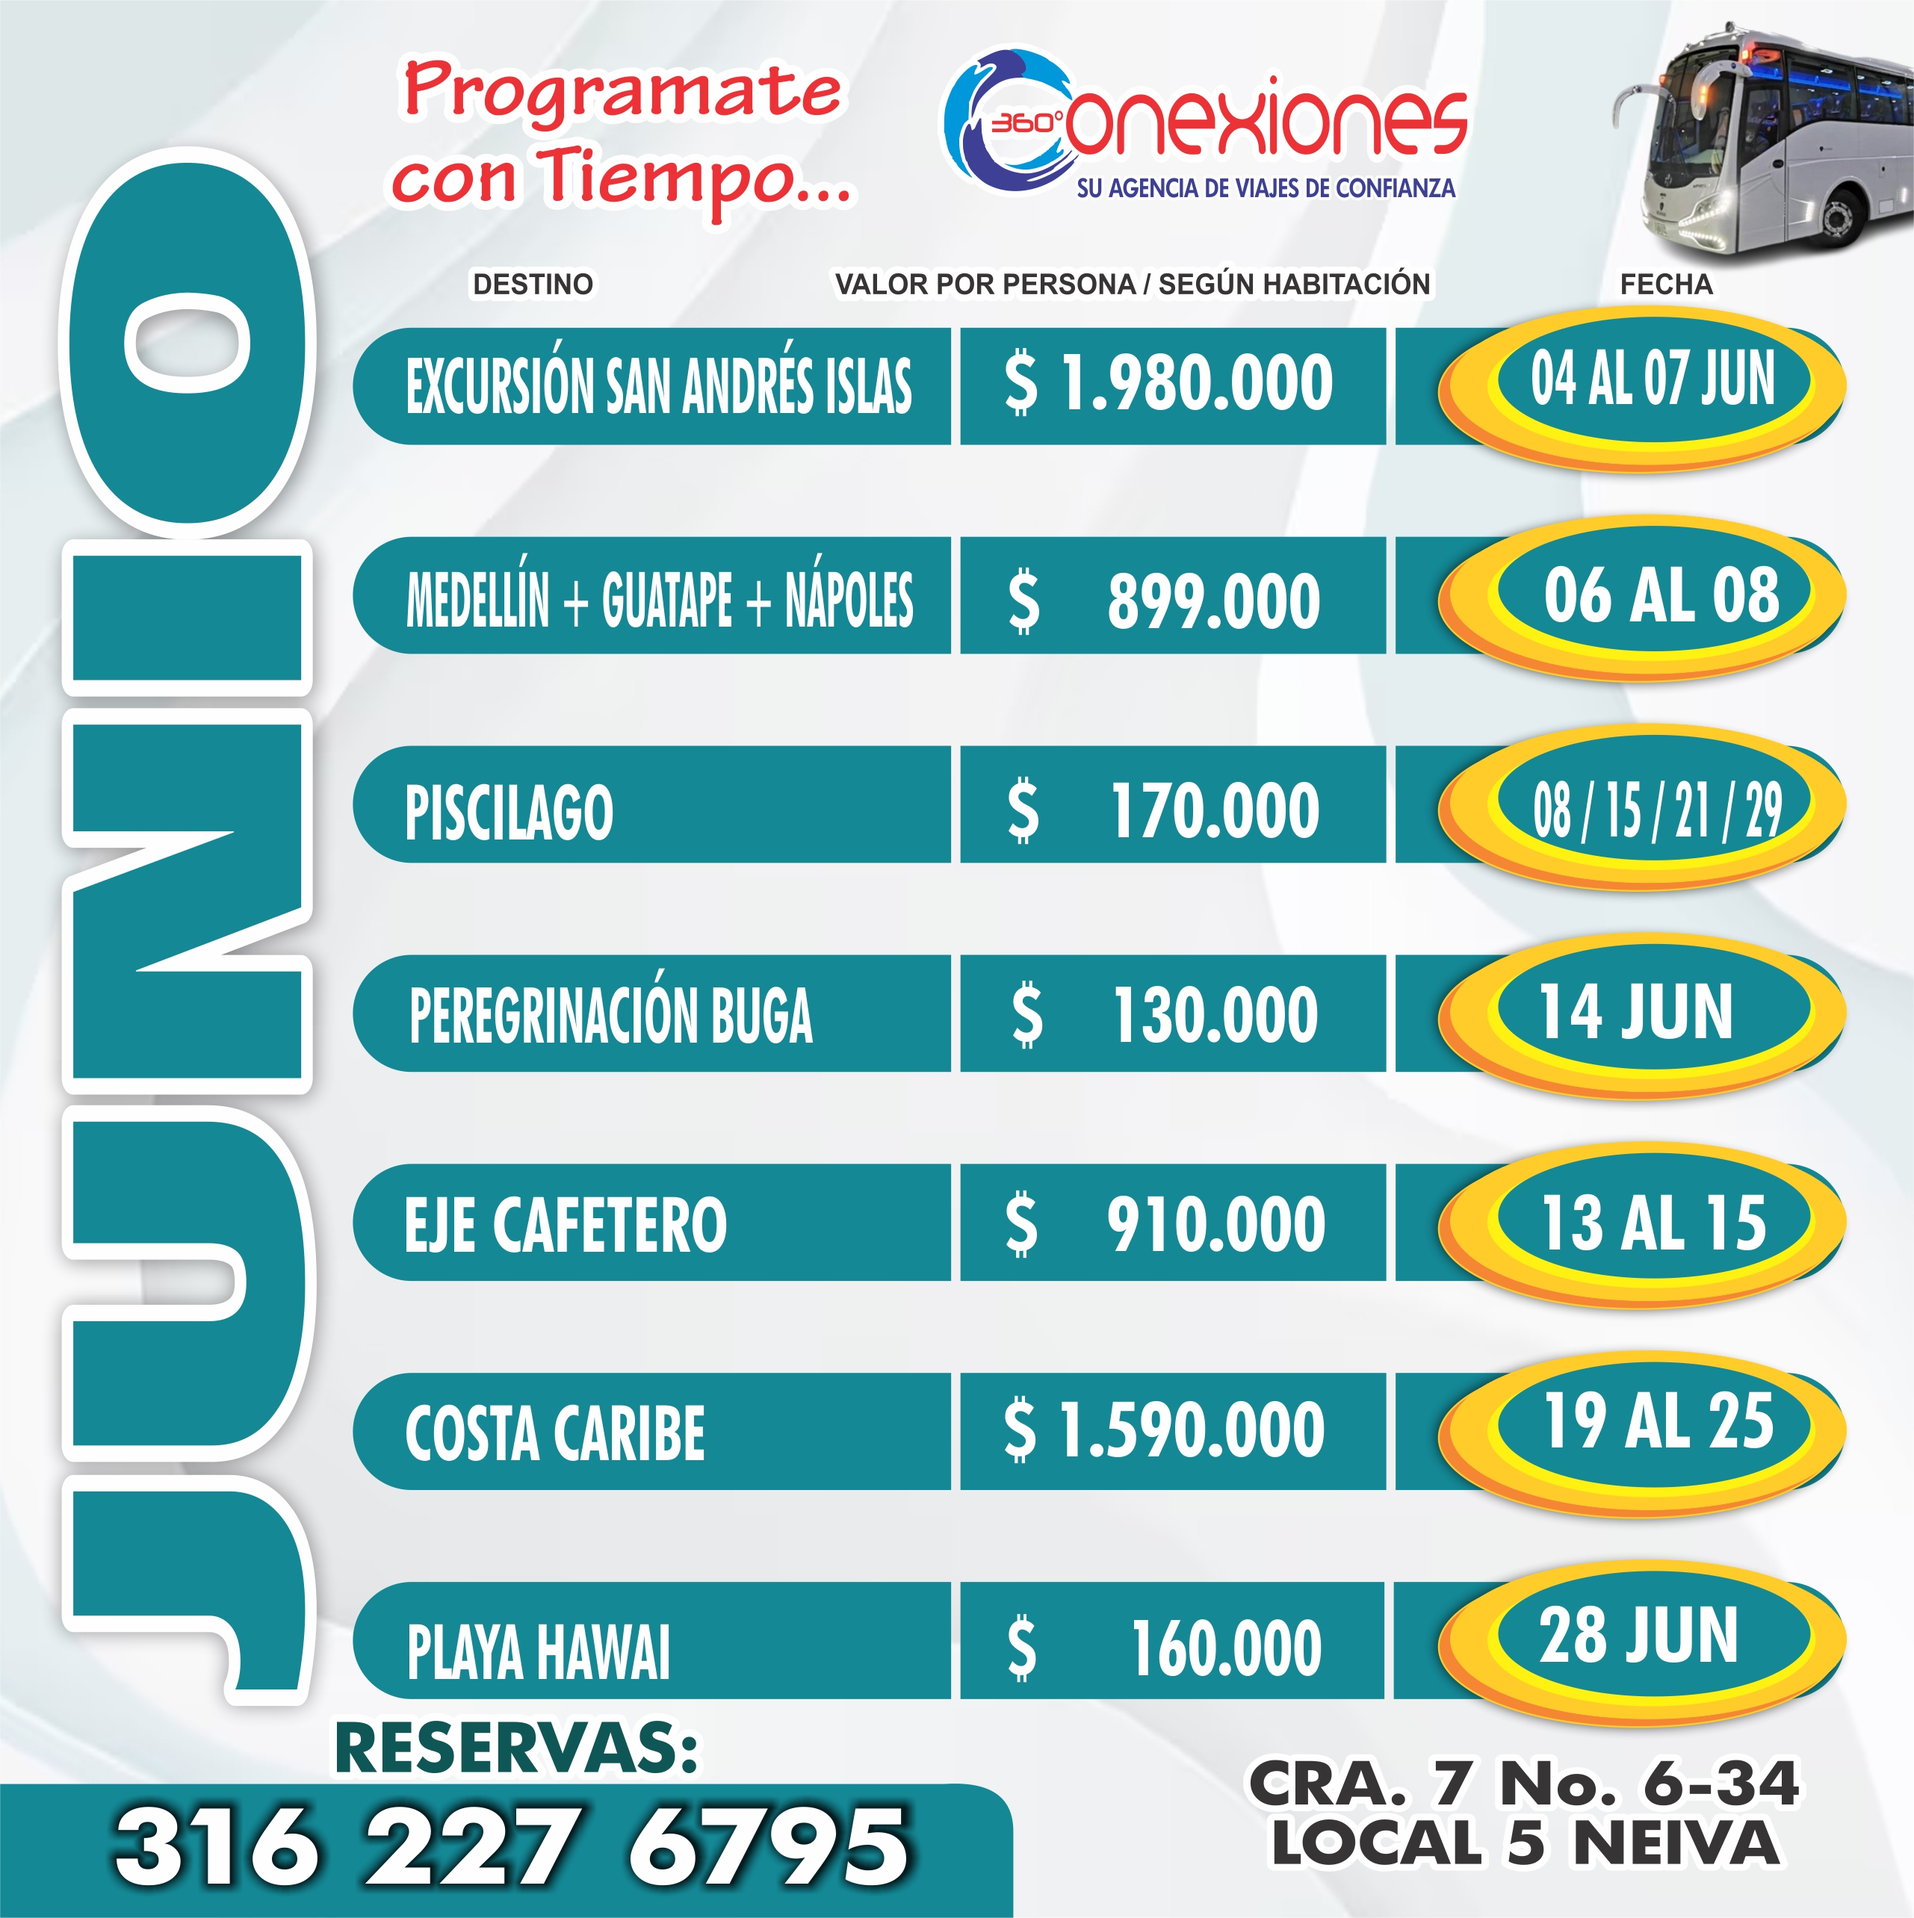
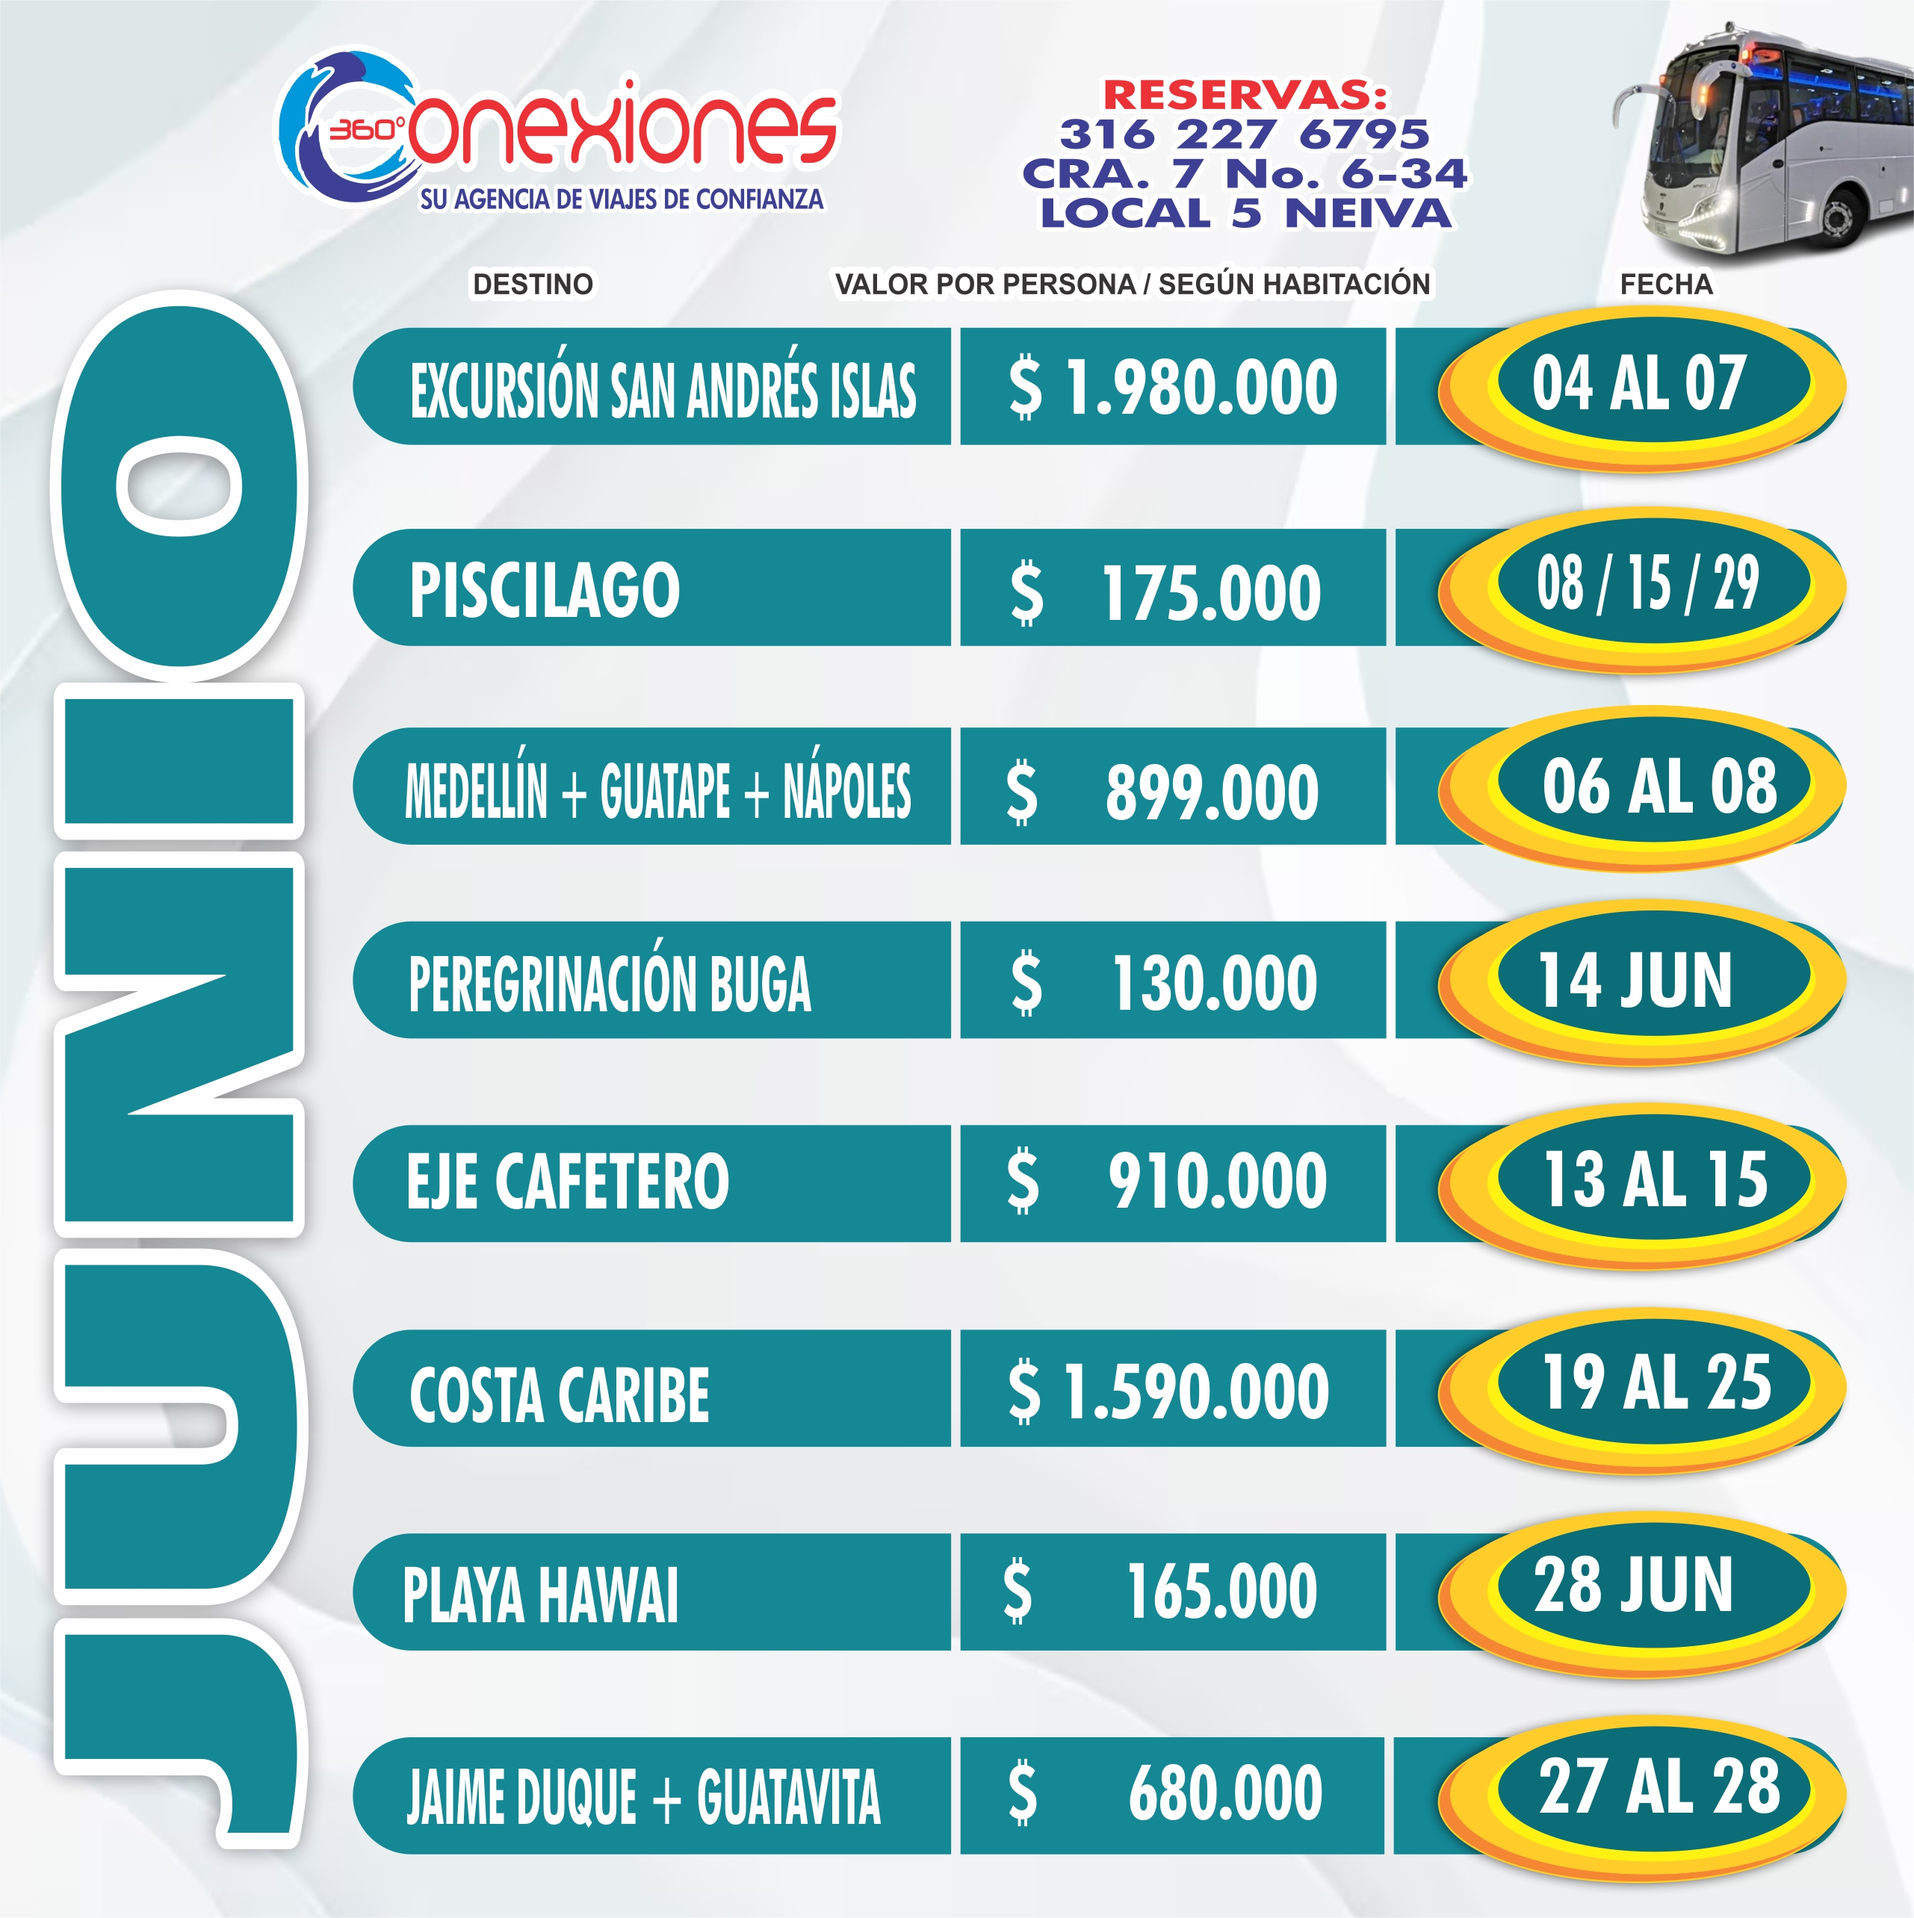
junio correcciones v200226

diff --git a/src/data/flyers/flyers.ts b/src/data/flyers/flyers.ts
@@ -547,7 +547,7 @@ export const flyers: FlyerPlan[] = [
     tipo: "terrestre",
     titulo: "Hacienda Nápoles",
     fechas: ["Mayo 17"],
-    precio: 370000,
+    precio: 380000,
     imagen: "/Mayo2026/napoles.jpg",
     whatsappBase:
       "Hola Conexiones360, quiero información del plan Hacienda Nápoles",
@@ -571,7 +571,7 @@ export const flyers: FlyerPlan[] = [
     tipo: "terrestre",
     titulo: "Programación Junio 2026",
     fechas: ["Junio 1 - 30"],
-    precio: 130000,
+    precio: 165000,
     imagen: "/Junio2026/lista.jpg",
     whatsappBase:
       "Hola Conexiones360, quiero información del plan Junio 2026",
@@ -587,6 +587,21 @@ export const flyers: FlyerPlan[] = [
     whatsappBase:
       "Hola Conexiones360, quiero información del plan San Andrés",
   },
+              {
+    id: "piscilago-junio",
+    mes: "junio",
+    tipo: "terrestre",
+    titulo: "Piscilago Pasadía",
+    fechas: [
+      "Junio 8",
+      "Junio 15",
+      "Junio 29",
+    ],
+    precio: 175000,
+    imagen: "/Junio2026/piscilago.jpg",
+    whatsappBase:
+      "Hola Conexiones360, quiero información del plan Piscilago Pasadía",
+  },
             {
     id: "medellin-junio",
     mes: "junio",
@@ -597,22 +612,6 @@ export const flyers: FlyerPlan[] = [
     imagen: "/Junio2026/medellin.jpg",
     whatsappBase:
       "Hola Conexiones360, quiero información del plan Medellín, Guatapé y Nápoles",
-  },
-            {
-    id: "piscilago-junio",
-    mes: "junio",
-    tipo: "terrestre",
-    titulo: "Piscilago Pasadía",
-    fechas: [
-      "Junio 8",
-      "Junio 15",
-      "Junio 21",
-      "Junio 29",
-    ],
-    precio: 170000,
-    imagen: "/Junio2026/piscilago.jpg",
-    whatsappBase:
-      "Hola Conexiones360, quiero información del plan Piscilago Pasadía",
   },
             {
     id: "buga-junio",
@@ -653,10 +652,21 @@ export const flyers: FlyerPlan[] = [
     tipo: "terrestre",
     titulo: "Playa Hawai",
     fechas: ["Junio 28"],
-    precio: 160000,
+    precio: 165000,
     imagen: "/Junio2026/playahawai.jpg",
     whatsappBase:
       "Hola Conexiones360, quiero información del plan Playa Hawai",
+  },
+              {
+    id: "guatavita-junio",
+    mes: "junio",
+    tipo: "terrestre",
+    titulo: "Guatavita y Parque Jaime Duque",
+    fechas: ["Junio 28"],
+    precio: 680000,
+    imagen: "/Junio2026/guatavita.jpg",
+    whatsappBase:
+      "Hola Conexiones360, quiero información del plan Guatavita y Parque Jaime Duque",
   },
 
 // JULIO 
